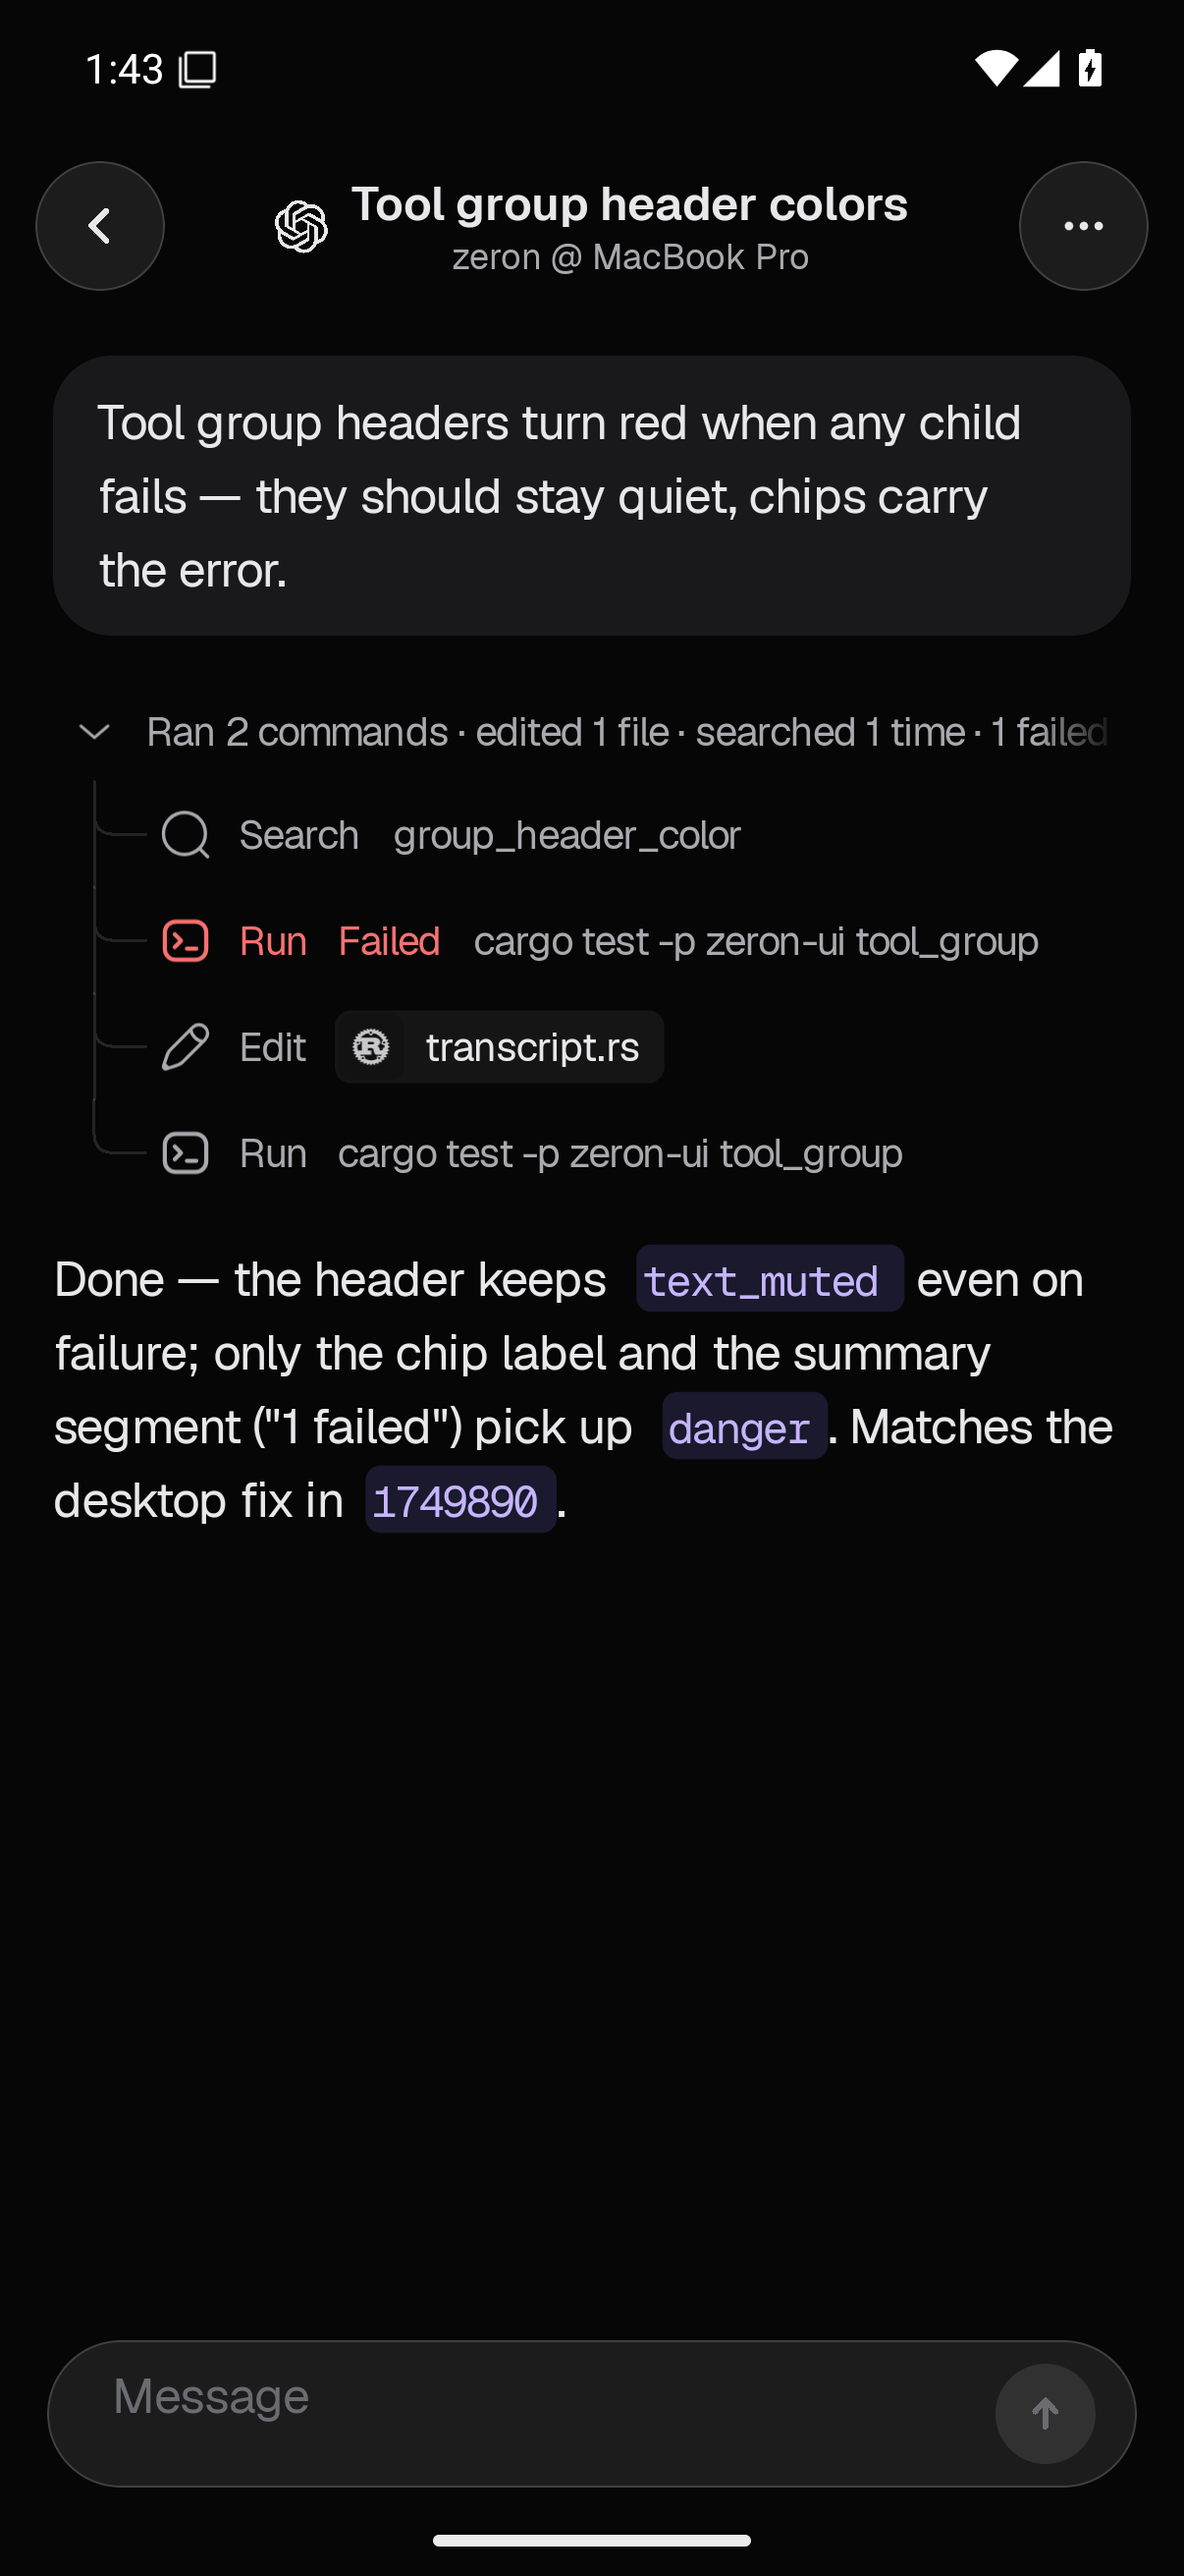
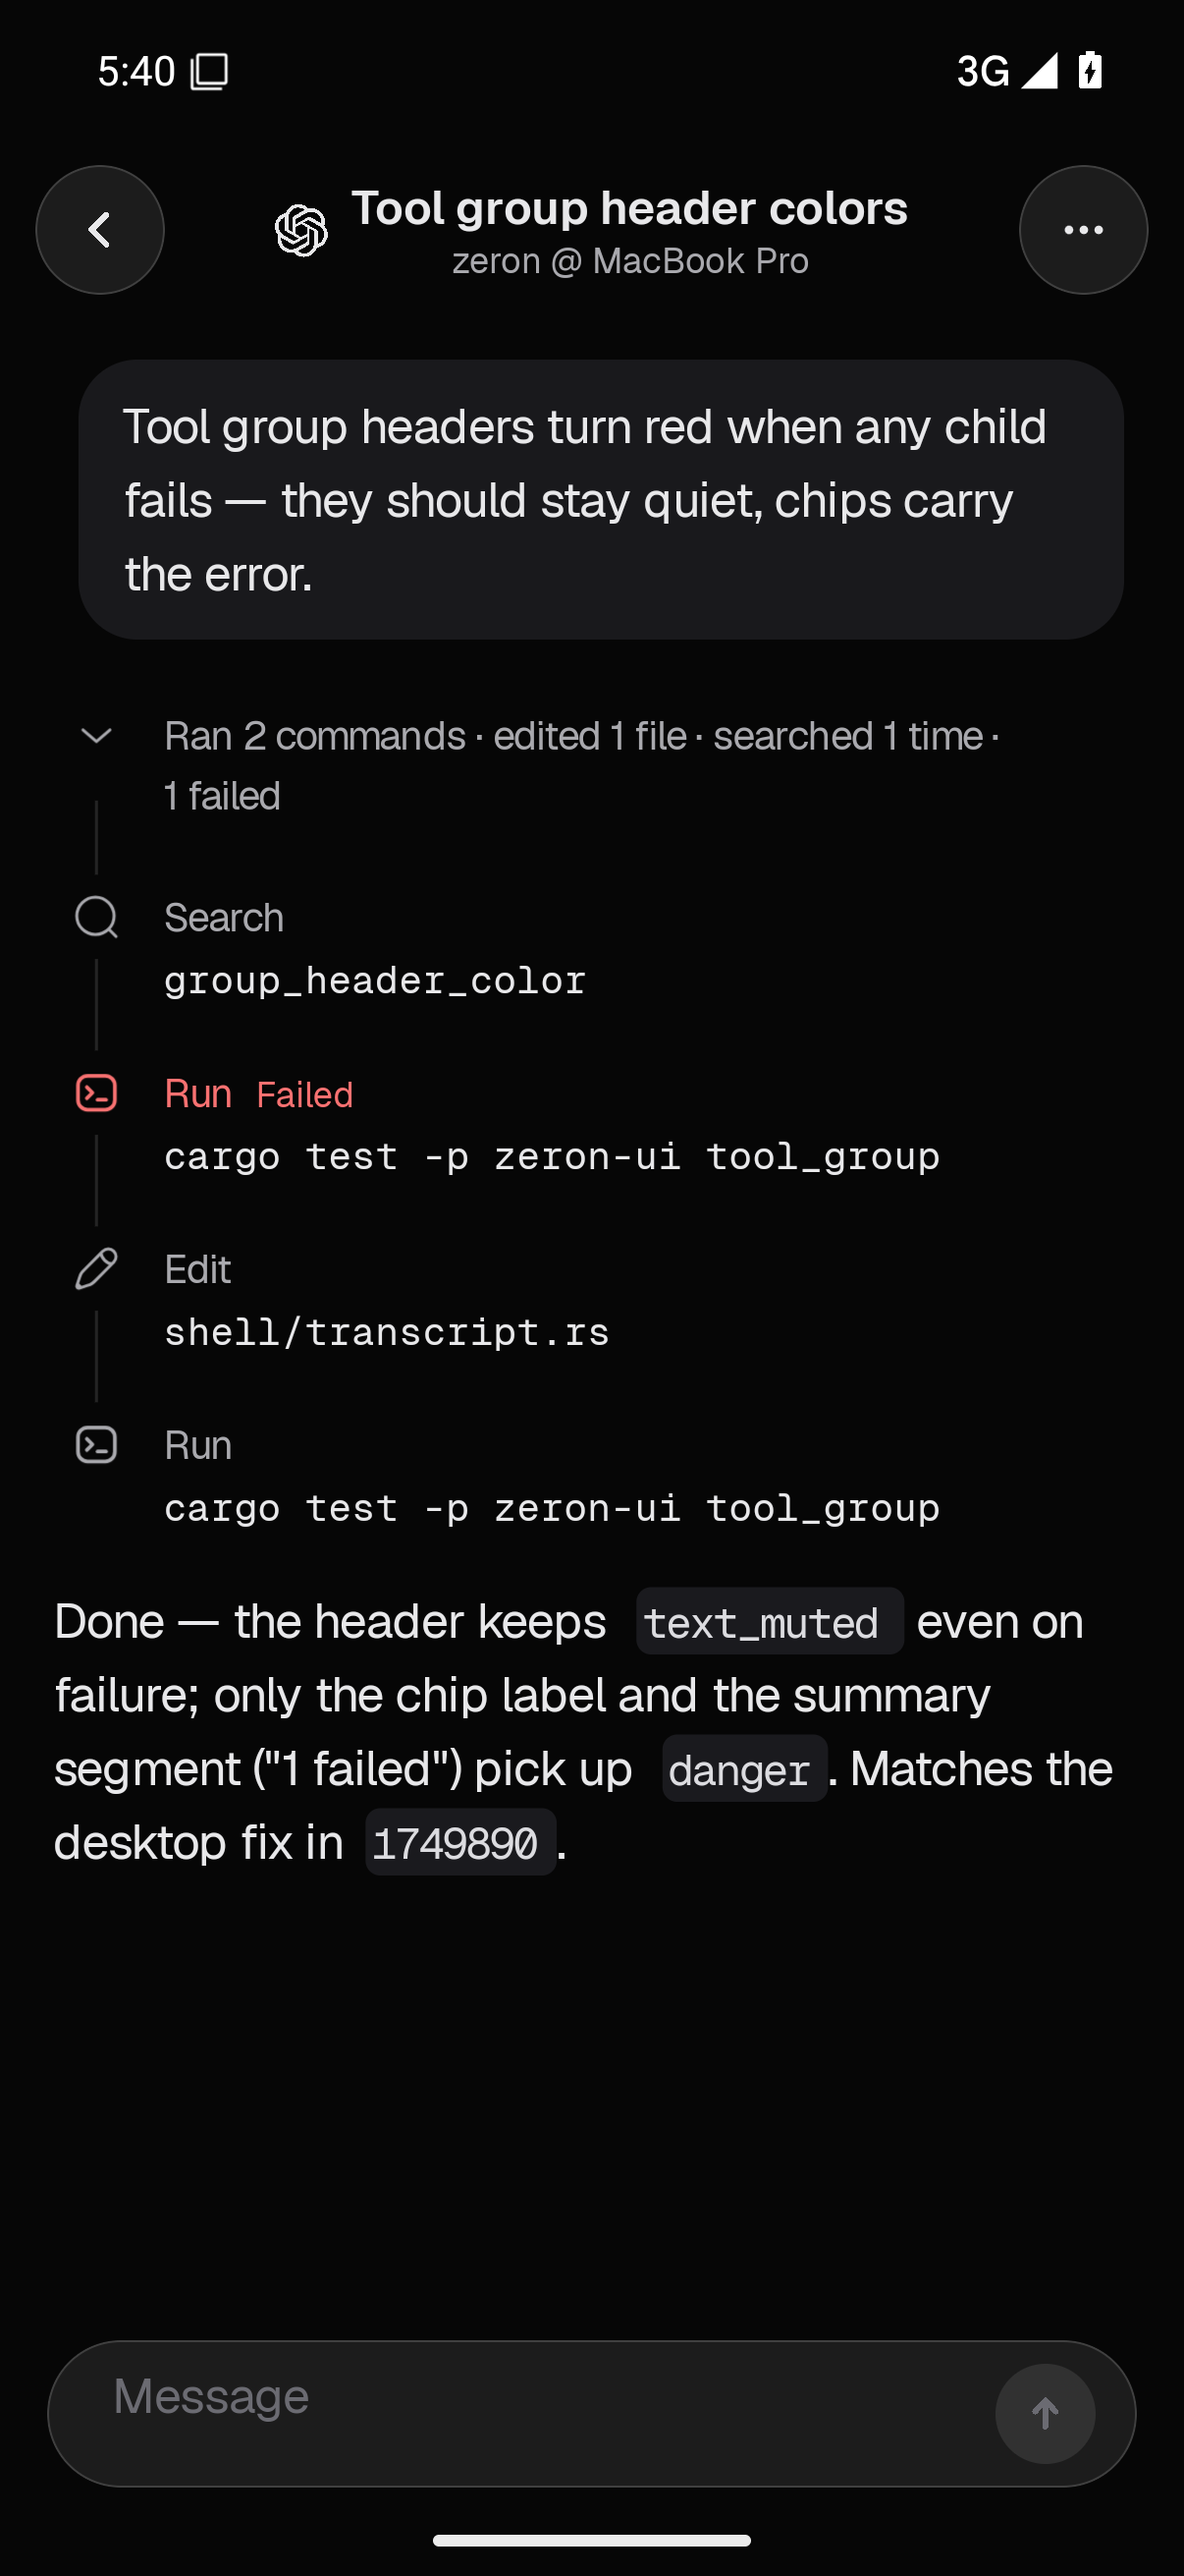
docs: round-4 Android/iOS parity captures (CJK, tool rows, Pinyin IME, chip and space menus, landscape)

diff --git a/docs/screenshots/android-parity/README.md b/docs/screenshots/android-parity/README.md
@@ -1,42 +1,50 @@
 # Android / iOS parity
 
-Both sides are 1206×2622. The iOS frames are the iPhone 17 Pro references already in this repo (dark). The Android frames are the debug demo build on an Android 15 emulator with the display overridden to the same pixel size and 480 dpi, in dark mode, on the same demo workspace.
+Both sides are 1206×2622 (3×). The iOS frames are the iPhone references already in this repo (dark). The Android frames are the debug demo build on an Android 15 (API 35, google_apis x86_64) emulator with the display at 1206×2622 and 480 dpi, in dark mode, on the demo workspace. Round 4 frames came from a software-rendered (TCG, no KVM) emulator.
 
 | Pair | iOS | Android state |
 | --- | --- | --- |
-| `sessions-list.png` | `mobile-polish/home-glass.png` | Sessions front page |
-| `space-filter.png` | `mobile-polish/project-menu.png` | “All” space-filter menu open |
-| `tool-activity.png` | `mobile-polish/tool-activity.png` | “Tool group header colors”, group expanded |
-| `multiline-keyboard.png` | `mobile-polish/multiline-keyboard.png` | Composer focused, Gboard up, wrapping draft |
-| `send-runway.png` | `mobile-polish/send-runway.png` | Same session, Gboard up, one-line draft |
+| `tool-activity.png` | `mobile-polish/tool-activity.png` | “Tool group header colors”, group expanded (two-line rows) |
+| `cjk-tool-rows.png` | `mobile-polish/tool-activity.png` | Chinese demo session `chat-zh`, group expanded: CJK arguments in Geist Mono at two cells |
+| `cjk-transcript.png` | `mobile-polish/tool-activity.png` | `chat-zh` collapsed: CJK prose via Noto Sans CJK, gray inline code, aligned CJK `text` table and Rust block |
 | `ios-portrait.png` | `appshots/appshots-ios-portrait.png` | Same expanded tool-group session |
+| `sessions-list.png` | `mobile-polish/home-glass.png` | Sessions front page (with the 中文 and 日本語 rows) |
+| `space-filter.png` | `mobile-polish/project-menu.png` | “All” space-filter menu open |
+| `chinese-ime-composing.png` | `mobile-polish/multiline-keyboard.png` | fcitx5-android Pinyin, one-line draft, composing “hang” with candidates |
+| `chinese-ime-multiline.png` | `mobile-polish/multiline-keyboard.png` | fcitx5 Pinyin, two-line draft, composing “zhe dang” |
+| `chip-menu.png` | `mobile-polish/send-runway.png` | Reasoning-effort chip menu open (the repo has no iOS chip-menu frame; the pair shows the chip row) |
+| `landscape.png` | `appshots/appshots-ios-landscape.png` (rotated upright) | Same session in landscape, no queue |
+| `multiline-keyboard.png`, `send-runway.png` | `mobile-polish/…` | Round 3 (Gboard); not recaptured |
 
-Raw Android frames: `android-sessions.png`, `android-space-filter.png`, `android-transcript.png`, `android-keyboard.png`, `android-multiline.png`, `android-settings.png`, `android-archived.png` (list scrolled to the Archived divider).
+Raw Android frames: `android-transcript.png`, `android-sessions.png`, `android-space-filter.png`, `android-cjk-tools.png`, `android-cjk-transcript.png`, `android-ime-pinyin.png`, `android-ime-pinyin-multiline.png`, `android-ime-pinyin-committed.png`, `android-chip-effort.png`, `android-chip-model.png`, `android-landscape.png`. From round 3 and not retaken: `android-keyboard.png`, `android-multiline.png`, `android-settings.png`, `android-archived.png`.
 
 ## What matches
 
-- Demo backdrop is `#0D0D0D`. Header is a glass “All” capsule and a glass capsule with new-session and profile. No large “Sessions” title and no tab bar.
-- Rows are three lines with no leading icon column. Line 1 is `project @ machine` and the status. Line 2 is the title at regular weight, 16.5sp. Line 3 is a small agent mark, the branch icon, the branch name, and a right-aligned `#PR` chip. “Done” is only shown for an unseen completed session.
-- The Archived divider is the same treatment as the iOS frame: “Archived” with a chevron, then single-line titles and a relative time (`3d`, `6d`). It is reachable by scrolling. See `android-archived.png`.
-- The space menu has the checkmark on the left of “All”, then projects in recent-activity order (zeron, edge, Zeron iOS, blog), a divider, and a folder-plus “New space…”. Session status words are not drawn in the menu. A dim scrim sits behind it.
-- The tool group starts collapsed, matching the iOS default for a finished group. Expanded, the header reads the Rust summary, with a down chevron, a rail, and the rows: Search `group_header_color`, red terminal “Run” + red “Failed” + the command, pencil “Edit” `shell/transcript.rs`, then the successful re-run. The user bubble is left-aligned and nearly the full column. Inline code is purple-tinted text on a faint accent wash, with 2pt of side padding.
-- The focused composer is one field: full-width text, then a row with plus, model / effort / PR chips, and send. Chips do not open menus. The resting capsule is “Message” and send.
-- The system IME is Gboard. The composer and transcript sit on `WindowInsets.ime` (unioned with the navigation bar). Checked at two heights: Gboard’s inset top was y=1614 (1008px tall) and the voice IME’s was y=1736 (886px tall). In both cases the field stayed above the inset. Gboard’s suggestion strip was visible and did not cover the field.
-
-## Glass
-
-A full-tree `RenderNode` + `RenderEffect` blur segfaults this emulator’s GPU (round 2). A software `View.draw` into a bitmap was not kept: the first attempt crashed the activity by writing a sentinel under `/tmp`, which the app cannot access. The path that shipped is a downscaled `PixelCopy` of the window, box-blurred on the CPU (radius 2 at 1/8 resolution), sampled inside the capsule with a 0.72 `#1E1E1E` wash. The success file is `cache/glass-blur-ok`. On this flat backdrop the capsule still measures about `(29,29,29)`, next to the iOS capsule at about `(30,30,30)`.
+- **CJK fallback.** Geist has no CJK glyphs. `FontChain` puts the system Noto Sans CJK SC after Geist / Geist Mono in one `CustomFallbackBuilder` chain per face. The Rust measurer, the transcript canvas, and Compose labels all use those same typefaces, so wraps and row heights agree with the drawing. The session list, header title, bubble, prose, and tool rows render Chinese and Japanese with real glyphs.
+- **Double-width CJK in mono.** In mono runs each wide cluster measures and draws as exactly 2× the `0` advance. In `cjk-transcript.png` the `| 名称 | 状态 |` table columns line up with the ASCII rows, and `rg -n "中文标题" docs/排版` keeps its grid.
+- **Tool rows** follow the iOS frame at 3×. The icon sits on the trunk. Line 1 is the verb in the secondary color, with a red “Failed” on failure. Line 2 is the argument or command in Geist Mono 13 (`TextSoft`), on one line with a trailing fade. File calls show `parent/name` (for example `shell/transcript.rs`). Short 1pt rail segments join the icons. The group summary wraps instead of truncating, and it only breaks between “·” segments, so “1 failed” stays together.
+- **Inline code** is the iOS `Palette` gray: `#DCDCE0` on `#1A1A1E` in dark, `#3F3F46` on `#E9E9ED` in light. The user bubble hugs its text, is right-aligned, and ends 7/3 pt short of the column. That puts it at x≈77–1145, like iOS.
+- **Chips** follow `CoreSessionSource`: model (brand mark), effort (gauge), then the PR, or the branch if there is no PR. Tapping one opens an anchored, undimmed glass menu above it, left-aligned with the chip and kept below the status bar:
+  - Model: live `listModels` catalog, check on the current model; applies with `setSessionConfig`.
+  - Reasoning effort: the model's levels, check on the current one.
+  - PR: Open Pull Request and Copy Link.
+- **Space filter.** There is no dim scrim, as in the iOS frame. The panel covers the “All” capsule: 247pt wide, radius 26, check column at 27pt, titles at 59pt, a visible divider, and a folder-plus “New space…”. It lists only spaces that have active (non-archived) sessions, most recent first, plus the selected space.
+- **Chinese IME.** fcitx5-android 0.1.3 (Pinyin, from GitHub releases) was the system IME, with no custom keyboard. Measured at 3× px:
+  - The IME top, including the candidate bar, is at y=1572. The composer card bottom is at y=1509, so the field stays above the inset.
+  - A one-line draft card starts at y=1328. The two-line draft starts at y=1256, so the field grew upward by one line (72px) and its bottom did not move.
+  - Candidates sit in fcitx's own bar inside the inset and never cover the field. fcitx draws its preedit label (“zhe dang”) in the 21dp gap just above that bar, so it touches the card's bottom edge but not the text.
+  - Committed text (`我们在测试中文输入法，这个输入框会自动换行，候选栏不会遮挡。`) wraps to two lines in the field.
 
 ## Remaining differences
 
-- **Front page length.** The iOS `home-glass` frame shows four active rows and then Archived, with empty backdrop below. The current demo fixture has ten active sessions (pinned, P0, Mobile, and Recent), so Archived starts below the first screen. Row pitch is 74dp, the measured iOS pitch. The divider itself matches; the list is longer.
-- **Picker status.** The fixture marks “Model picker catalog sync” as awaiting input, so the row says “Input”. The iOS frame shows “Done”.
-- **Tool summary wording.** The shared layout string is “Ran 2 commands · edited 1 file · searched 1 time · 1 failed”, because the transcript has two execs, one edit, and one search. The iOS PNG says “Ran 1 command · edited 1 file · 1 search · 1 failed”. The expanded body also includes the successful second `cargo test` row.
-- **User bubble inset.** The bubble’s left edge is the 18pt column margin (about x=54). The iOS frame’s bubble starts nearer x=77.
-- **Inline code color.** Android paints accent-tinted text (`#C4B5FD` on a 16% accent wash). The iOS PNG’s bubble and assistant text do not contain purple pixels; that build’s inline code is the gray palette.
-- **Menu contents.** The menu lists every project. The iOS PNG’s popover shows All, zeron, and edge before “New space…”. The scrim is a 45% black dim; the iOS PNG’s already-black backdrop does not read as dimmed outside the panel. There is no live backdrop blur behind the menu.
+- **Old iOS frames.** The iOS PNGs predate the current Swift code:
+  - The PNG's inline code is purple, but `Palette.swift` specifies gray, which Android follows.
+  - The PNG's chip row is `#77 · main · GPT-5.6-Terra`. `CoreSessionSource` builds model, effort, then PR or branch, which Android follows.
+  - The PNG's tool summary says “Ran 1 command · edited 1 file · 1 search · 1 failed”. The shared Rust summary for this fixture is “Ran 2 commands · edited 1 file · searched 1 time · 1 failed”, which wraps to two lines on the phone width. The expanded body has the second `cargo test` row.
+- **Space-menu contents.** The iOS source in this repo has no space-filter menu, so the rule was inferred from the frame. That frame shows All, zeron, and edge from an older, smaller fixture. With the current fixture all four spaces (zeron, edge, Zeron iOS, blog) have active sessions, so all four are listed.
+- **Branch chip menu** (Copy Branch Name) is an Android addition. iOS has no menu on the branch chip.
+- **Compose mono** (branch or PR chip text, menu titles) uses the same font chain, but double-width CJK alignment is only enforced in the Rust-laid-out transcript.
+- **Menus** have no live backdrop blur. They use a denser `#232325` wash at 86% instead of UIMenu's material.
+- **fcitx preedit** is drawn by fcitx in its own label above the candidate bar, not inline in the field. Only fcitx's Quick Phrase mode showed an inline underlined preedit. That is IME behavior; the field accepts `setComposingText`.
+- **Landscape** is full-bleed (1206px tall with the status bar). The iOS landscape frame is the queued state (two queued rows with an attachment strip), which was not reproduced. The queue, gallery, lightbox, and first-capture appshots were not recaptured.
 - **Profile** is a drawn person glyph, not a photo.
-- **Composer chips** are labels only. They do not open the model, effort, or PR menus.
-- **CJK.** No CJK keyboard is installed (Gboard and the voice IME only). Composing text and candidate windows were not exercised. Gboard’s Latin suggestion strip was not clipped. The CJK session title is drawn with Geist, which does not cover those glyphs, so that row’s title does not match the system-font iOS rendering.
-- **IME animation.** Inset padding follows `WindowInsets.ime`. Captures were taken with animator duration scale 0, so the move is immediate in the stills. With scale 1, both keyboard heights left the composer on the inset.
-- **Not recaptured.** `appshots-ios-landscape`, `appshots-ios-queue-actions`, `appshots-ios-queue-gallery`, `appshots-ios-lightbox`, and `appshots-ios-first-capture` need rotation, an in-flight queue, or an attachment.

diff --git a/apps/android/README.md b/apps/android/README.md
@@ -68,3 +68,9 @@ adb shell am start -n sh.zeron.android/.MainActivity \
 iOS uses system Liquid Glass. Recording the Compose hierarchy into a `RenderNode` and blurring it with `RenderEffect` crashes the emulator GPU. Drawing that same hierarchy into a software canvas from the app process is not used either. Capsules sample a 1/8-scale `PixelCopy` of the window, box-blurred on the CPU. If that copy fails, or a previous attempt died before writing its success file in the app cache, the capsule stays a frosted `#1E1E1E` fill with a hairline. On the flat demo backdrop the blurred sample and the fill measure almost the same.
 
 The front page matches the iOS sessions chrome: an “All” space filter, new-session and profile capsules, and no tab bar. Profile opens Settings; Search is a row in Settings. System back pops the session stack, the new-session sheet, sign-in, and Settings. The composer uses the installed IME only. `adjustResize` plus `WindowInsets.ime` unioned with the navigation bar keeps the field and the transcript above the keyboard, including a second IME height. There is no in-app keyboard.
+
+### Fonts and CJK
+
+`design/FontChain.kt` builds one fallback chain per face role: the bundled Geist / Geist Mono asset (from `apps/ios/Zeron/Fonts/`), then the system Noto Sans CJK SC (looked up through `SystemFonts`, `wght` axis set per weight), then `sans-serif`. The same `Typeface` objects feed the Rust core's text measurer (`AndroidMeasurer`), the transcript canvas, and Compose (`ZeronType` wraps them in an `AndroidFont`), so line breaks and row heights agree with what is drawn. In monospace runs every East Asian Wide / Fullwidth cluster (UAX #11, plus wide emoji) measures and draws as exactly two cells of the mono `0` advance. The demo workspace has a Chinese session (`chat-zh`) with a Chinese tool group and an aligned code table to check this.
+
+Chinese input was checked with fcitx5-android (Pinyin) as the system IME: the composer rides on `WindowInsets.ime`, the candidate bar sits inside the IME inset, and a two-line draft grows the field upward. See `docs/screenshots/android-parity/`.
